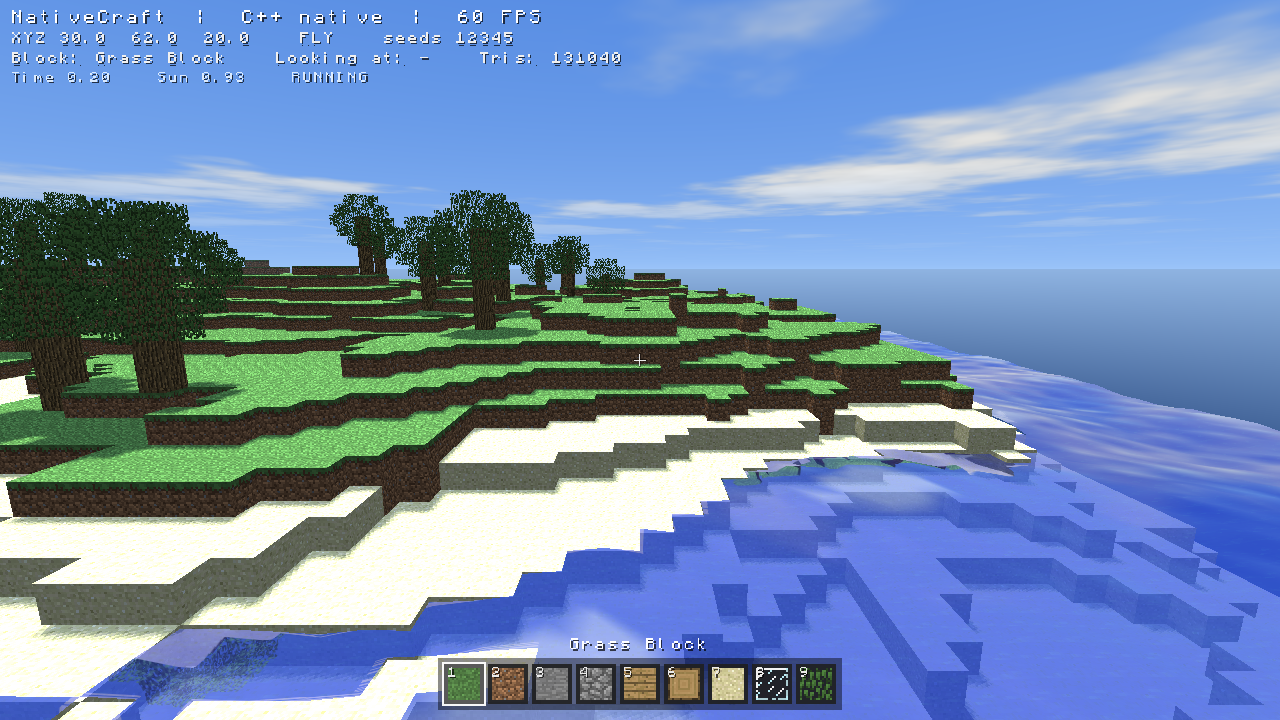
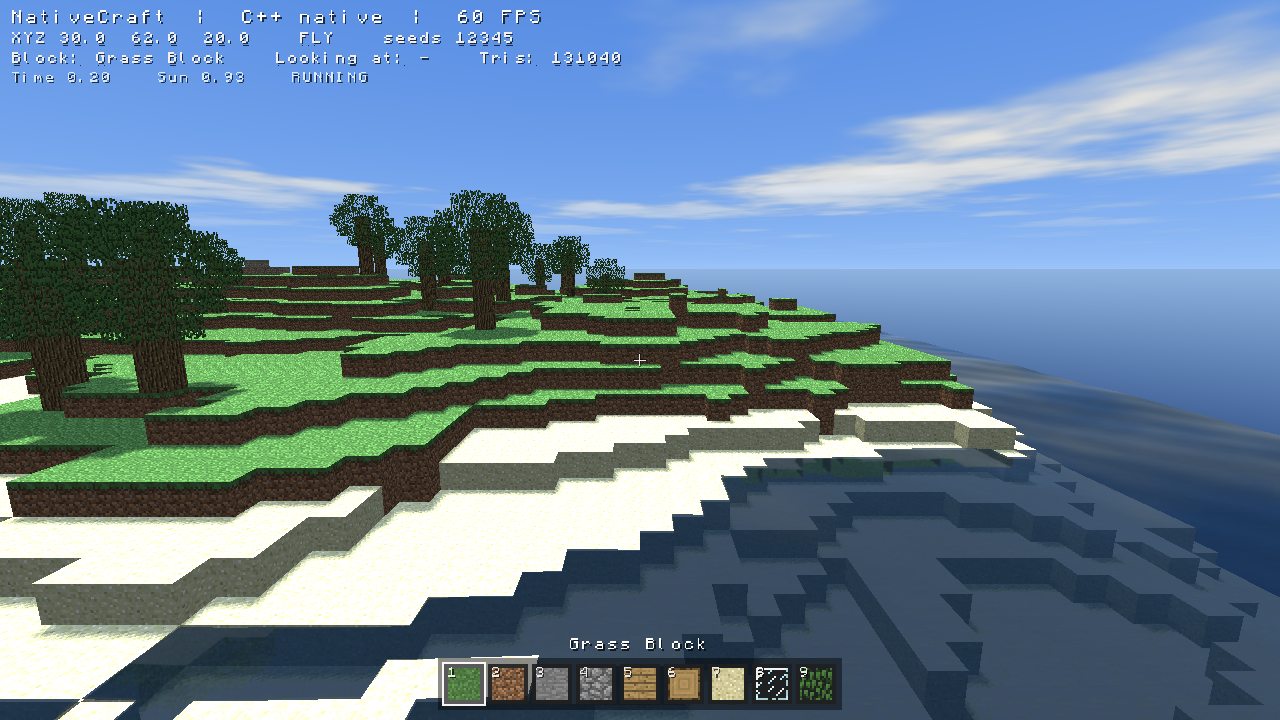
Make water reflections more realistic

Changed region(s): [[0.0, 0.4583, 1.0, 1.0]]

diff --git a/src/render/WorldRenderer.cpp b/src/render/WorldRenderer.cpp
@@ -161,21 +161,21 @@ out float vWaveHeight;
 void main() {
     vec3 position = aPos;
     float mask = step(uWaterLevel - 0.01, aPos.y);
-    float phase1 = aPos.x * 0.62 + uTime * 0.95;
-    float phase2 = aPos.z * 0.71 + uTime * 0.82;
-    float phase3 = (aPos.x + aPos.z) * 0.33 + uTime * 0.55;
+    float phase1 = aPos.x * 0.45 + uTime * 0.7;
+    float phase2 = aPos.z * 0.52 + uTime * 0.6;
+    float phase3 = (aPos.x + aPos.z) * 0.22 + uTime * 0.4;
     float height = (sin(phase1) * 0.5 + sin(phase2) * 0.5) * 0.7 + sin(phase3) * 0.3;
-    float ripplePhaseX = aPos.x * 2.6 + uTime * 2.0;
-    float ripplePhaseZ = aPos.z * 2.2 - uTime * 1.5;
+    float ripplePhaseX = aPos.x * 1.6 + uTime * 1.1;
+    float ripplePhaseZ = aPos.z * 1.4 - uTime * 0.9;
     float ripple = sin(ripplePhaseX) * sin(ripplePhaseZ);
-    float waveHeight = (height * uWaveAmplitude + ripple * 0.05) * mask;
+    float waveHeight = (height * uWaveAmplitude + ripple * 0.018) * mask;
     position.y += waveHeight;
-    float dhdx = (cos(phase1) * 0.62 * 0.5 * 0.7 + cos(phase3) * 0.33 * 0.3)
+    float dhdx = (cos(phase1) * 0.45 * 0.5 * 0.7 + cos(phase3) * 0.22 * 0.3)
                * uWaveAmplitude * mask;
-    float dhdz = (cos(phase2) * 0.71 * 0.5 * 0.7 + cos(phase3) * 0.33 * 0.3)
+    float dhdz = (cos(phase2) * 0.52 * 0.5 * 0.7 + cos(phase3) * 0.22 * 0.3)
                * uWaveAmplitude * mask;
-    dhdx += cos(ripplePhaseX) * 2.6 * sin(ripplePhaseZ) * 0.05 * mask;
-    dhdz += sin(ripplePhaseX) * cos(ripplePhaseZ) * 2.2 * 0.05 * mask;
+    dhdx += cos(ripplePhaseX) * 1.6 * sin(ripplePhaseZ) * 0.018 * mask;
+    dhdz += sin(ripplePhaseX) * cos(ripplePhaseZ) * 1.4 * 0.018 * mask;
     vec3 normal = mask > 0.5 ? normalize(vec3(-dhdx, 1.0, -dhdz)) : normalize(aNormal);
     vWorldPos = position;
     vNormal = normal;
@@ -209,38 +209,48 @@ uniform float uDayFactor;
 out vec4 FragColor;
 
 void main() {
-    vec2 flow = vec2(uTime * 0.012, uTime * 0.008);
     vec3 normal = normalize(vNormal);
-    normal.x += sin(vWorldPos.x * 3.0 + uTime * 2.2) * 0.055;
-    normal.z += cos(vWorldPos.z * 2.8 - uTime * 1.8) * 0.055;
+    normal.x += sin(vWorldPos.x * 0.65 + uTime * 0.7) * 0.018;
+    normal.z += cos(vWorldPos.z * 0.72 - uTime * 0.6) * 0.018;
     normal = normalize(normal);
 
+    vec2 flow = vec2(uTime * 0.006, uTime * 0.004);
     vec3 texel = texture(uAtlas, vec3(vUV.xy + flow, vUV.z)).rgb;
-    vec3 deep = texel * vColor.rgb * (0.62 + 0.3 * uDayFactor);
+    vec3 waterBody = vec3(0.018, 0.075, 0.095) + texel * 0.08 + vColor.rgb * 0.06;
+    waterBody *= 0.55 + 0.45 * uDayFactor;
 
     vec4 clip = uReflectionVP * vec4(vWorldPos, 1.0);
     vec2 reflectionUv = clip.xy / clip.w * 0.5 + 0.5;
-    reflectionUv += normal.xz * 0.042;
+    reflectionUv += normal.xz * 0.018;
     reflectionUv = clamp(reflectionUv, vec2(0.002), vec2(0.998));
-    vec3 reflection = texture(uReflectionTex, reflectionUv).rgb;
-
-    vec3 viewDir = normalize(uCameraPos - vWorldPos);
-    float fresnel = pow(1.0 - max(dot(normal, viewDir), 0.0), 3.0);
-    vec3 color = mix(deep, reflection, clamp(0.42 + 0.58 * fresnel, 0.0, 0.92));
-
-    vec3 halfVector = normalize(uSunDir + viewDir);
-    float specular = pow(max(dot(normal, halfVector), 0.0), 220.0);
-    color += uSunColor * specular * 2.2;
-    vec3 reflectedSun = reflect(-uSunDir, normal);
-    float sunPath = pow(max(dot(reflectedSun, viewDir), 0.0), 12.0);
-    color += uSunColor * sunPath * 0.16;
-    float foam = smoothstep(0.14, 0.26, vWaveHeight) * (0.22 + 0.22 * uDayFactor);
-    color = mix(color, vec3(0.92, 0.97, 1.0), foam);
 
     float distanceToCamera = length(vWorldPos - uCameraPos);
+    vec2 texelSize = 1.0 / vec2(textureSize(uReflectionTex, 0));
+    float blur = mix(0.6, 3.0, clamp(distanceToCamera / 140.0, 0.0, 1.0));
+    vec2 offset = texelSize * blur;
+    vec3 reflection = texture(uReflectionTex, reflectionUv).rgb * 0.4;
+    reflection += texture(uReflectionTex, reflectionUv + vec2(offset.x, 0.0)).rgb * 0.15;
+    reflection += texture(uReflectionTex, reflectionUv - vec2(offset.x, 0.0)).rgb * 0.15;
+    reflection += texture(uReflectionTex, reflectionUv + vec2(0.0, offset.y)).rgb * 0.15;
+    reflection += texture(uReflectionTex, reflectionUv - vec2(0.0, offset.y)).rgb * 0.15;
+    reflection = mix(reflection, reflection * vec3(0.82, 0.92, 0.96), 0.25);
+
+    vec3 viewDir = normalize(uCameraPos - vWorldPos);
+    float fresnel = 0.02 + 0.98 * pow(1.0 - max(dot(normal, viewDir), 0.0), 5.0);
+    vec3 color = mix(waterBody, reflection, clamp(fresnel + 0.06, 0.0, 1.0));
+
+    vec3 halfVector = normalize(uSunDir + viewDir);
+    float specular = pow(max(dot(normal, halfVector), 0.0), 180.0);
+    color += uSunColor * specular * 1.4;
+    vec3 reflectedSun = reflect(-uSunDir, normal);
+    float sunPath = pow(max(dot(reflectedSun, viewDir), 0.0), 24.0);
+    color += uSunColor * sunPath * 0.08;
+    float crest = smoothstep(0.06, 0.14, vWaveHeight) * 0.03;
+    color += vec3(0.4, 0.55, 0.6) * crest * uDayFactor;
+
     float fog = clamp((distanceToCamera - uFogStart) / max(0.001, uFogEnd - uFogStart), 0.0, 1.0);
     color = mix(color, uFogColor, fog);
-    FragColor = vec4(color, clamp(0.72 + fresnel * 0.2, 0.0, 0.92));
+    FragColor = vec4(color, mix(0.82, 0.95, fresnel));
 }
 )";
 
@@ -696,7 +706,7 @@ void WorldRenderer::drawWater(const Mat4& viewProjection, const Vec3& cameraPosi
     waterShader_.setFloat("uFogEnd", fogEnd);
     waterShader_.setFloat("uTime", time);
     waterShader_.setFloat("uWaterLevel", waterLevel);
-    waterShader_.setFloat("uWaveAmplitude", 0.32f);
+    waterShader_.setFloat("uWaveAmplitude", 0.16f);
     waterShader_.setFloat("uDayFactor", environment.dayFactor);
     waterShader_.setInt("uAtlas", 0);
     waterShader_.setInt("uReflectionTex", 1);

diff --git a/src/world/Blocks.cpp b/src/world/Blocks.cpp
@@ -449,7 +449,7 @@ bool BlockRegistry::addWaterOrLava(const std::string& name, Assets& assets,
     def.alpha = water ? 0.72f : 1.0f;
     if (water) {
         for (auto& tint : def.tints) {
-            tint = {0.28f, 0.48f, 1.0f};
+            tint = {0.16f, 0.34f, 0.38f};
         }
     }
 

diff --git a/docs/DEVELOPMENT.md b/docs/DEVELOPMENT.md
@@ -65,7 +65,7 @@ Each frame runs these passes:
 2. **Reflection.** The scene is rendered from a camera mirrored across the water plane into an offscreen color/depth target. The sky and opaque geometry are included. Geometry below the water plane is clipped.
 3. **Sky.** A fullscreen triangle computes sky gradient, sun disk, moon, stars, and moving clouds from the inverse view-projection matrix.
 4. **Opaque world.** Block textures are lit by sun color, ambient sky/ground, and the shadow map. Glass and ice use a separate transparent pass.
-5. **Water.** Water vertices are displaced by large waves and small ripples. The fragment shader blends deep water color with the planar reflection, applies Fresnel, sun path, specular highlights, foam, and fog.
+5. **Water.** Water vertices are displaced by large waves and small ripples. The fragment shader blends deep water color with the planar reflection, applies Fresnel, blurred reflections, sun path, specular highlights, and fog.
 6. **HUD.** Crosshair, hotbar icons, bitmap text, and status lines.
 
 ## Lighting model

diff --git a/README.md b/README.md
@@ -75,7 +75,7 @@ assets/objects/
 - Procedural moving clouds with parallax on a cloud plane.
 - Stars and moon at night.
 - Planar water reflections rendered from a mirrored camera.
-- Animated water waves, ripples, foam, sun path, and specular highlights.
+- Animated water waves, ripples, Fresnel reflections, sun path, and specular highlights.
 - Sky, fog, ambient light, and sun color driven by the time of day.
 - Texture array for block textures, transparent pass for glass and ice.
 
